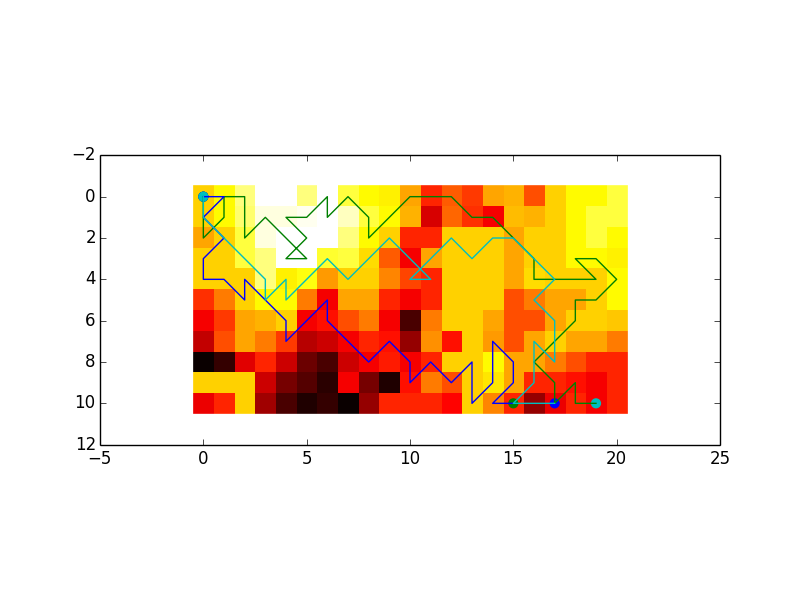
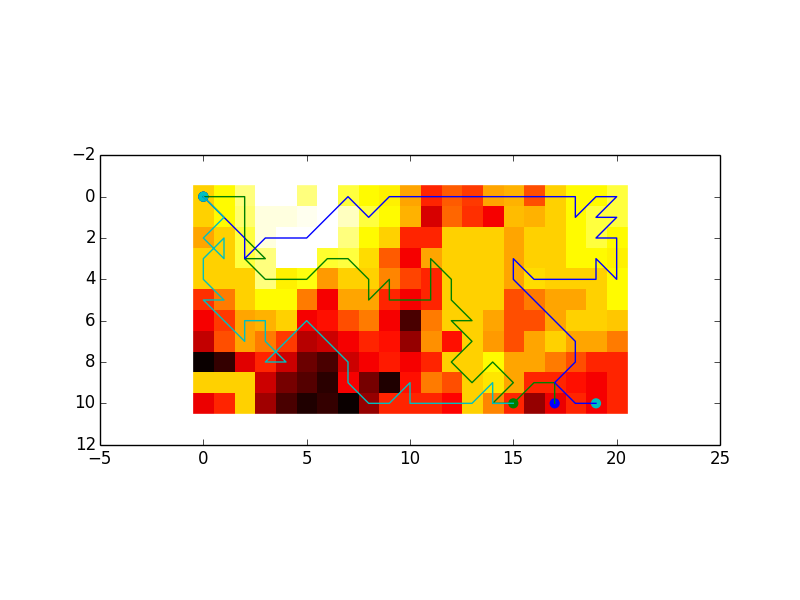
remove cycle

diff --git a/ga/population.py b/ga/population.py
@@ -1,5 +1,8 @@
 #!/bin/python3
 import random
+import Queue
+import threading
+import math
 
 from chromosome import Chromosome
 
@@ -39,6 +42,18 @@ class Population(object):
 
       return best
 
+    def _crossover(self, q, c1, c2):
+      new1, new2 = c1.crossover(c2)
+      new1.calculate_fitness(self.graph, self.removed_graph)
+      new2.calculate_fitness(self.graph, self.removed_graph)
+      q.put(new1)
+      q.put(new2)
+
+    def _mutate(self, c):
+      new1 = c.mutate()
+      new1.calculate_fitness(self.graph, self.removed_graph)
+      return new1
+
     def evolve(self):
       for i in range(ITERATION):
         print "Generation " + str(i)
@@ -47,23 +62,43 @@ class Population(object):
         self.chromosomes = self.chromosomes[:idx]
         buf = self.chromosomes
 
-        while idx < POP_SIZE:
+        iteration = int(math.ceil((POP_SIZE - idx) / 2.0))
+        q = Queue.Queue()
+        threads = []
+        for i in range(iteration):
+          c1 = self.selection()
+          c2 = self.selection()
+          t = threading.Thread(target=self._crossover, args = (q, c1, c2))
+          threads.append(t)
+
+        for t in threads:
+          t.start()
+
+        for i in range(2*iteration):
+          buf.append(q.get())
+
+        for i in range (idx, len(buf)):
           r = random.random()
           if r <= MUTATION_RATE:
-            c1 = self.selection()
-            new1 = c1.mutate()
-            new1.calculate_fitness(self.graph, self.removed_graph)
-            buf.append(new1)
-            idx += 1
-          else:
-            c1 = self.selection()
-            c2 = self.selection()
-            new1, new2 = c1.crossover(c2)
-            new1.calculate_fitness(self.graph, self.removed_graph)
-            new2.calculate_fitness(self.graph, self.removed_graph)
-            buf.append(new1)
-            buf.append(new2)
-            idx += 2
+            buf[i] = self._mutate(buf[i])
+
+        # while idx < POP_SIZE:
+        #   r = random.random()
+        #   if r <= MUTATION_RATE:
+        #     c1 = self.selection()
+        #     new1 = c1.mutate()
+        #     new1.calculate_fitness(self.graph, self.removed_graph)
+        #     buf.append(new1)
+        #     idx += 1
+        #   else:
+        #     c1 = self.selection()
+        #     c2 = self.selection()
+        #     new1, new2 = c1.crossover(c2)
+        #     new1.calculate_fitness(self.graph, self.removed_graph)
+        #     new2.calculate_fitness(self.graph, self.removed_graph)
+        #     buf.append(new1)
+        #     buf.append(new2)
+        #     idx += 2
         self.chromosomes = buf[:POP_SIZE]
         self.chromosomes = sorted(self.chromosomes, key=lambda x: x.fitness)
         print "Best fitness in current generation: " + str(self.chromosomes[0].fitness)

diff --git a/aco_ga_waterloo.py b/aco_ga_waterloo.py
@@ -1,19 +1,41 @@
 import sys
+import copy
 
 from graph.iomanager import IOManager
 from graph.iomanager import GraphNode
 
 from ga.population import Population
+from ga.chromosome import Chromosome
 from ga.gaconstants import START_NODE
 
 from graph.graph import Graph
 
 from acosolver import ACOSolver
 
+def remove_cycle(path):
+  new_path = copy.deepcopy(path)
+  for i in range(len(new_path)):
+    if i >= len(new_path): break
+    n1 = new_path[i]
+    for j in range(i+1, len(new_path)):
+      if j >= len(new_path): break
+      n2 = new_path[j]
+      if n1 == n2:
+        new_path = new_path[:i] + new_path[j:]
+        i-=1
+        break
+  return new_path
+
 def main():
   goals = [226, 228, 230];
   routes = [(1, goals[0]), (1, goals[1]), (1, goals[2])]
   raw_graph = Graph(mapfile__name='./graph/waterloo.map')
+  # path = [1, 23, 45, 66, 88, 89, 67, 87, 66, 45, 24, 23, 45, 67, 68, 67, 89, 111, 131, 111, 133, 154, 155, 156, 135, 136, 156, 177, 156, 135, 157, 178, 179, 178, 179, 180, 159, 160, 182, 181, 161, 183, 184, 206, 228, 207, 228, 207, 206, 228, 208, 230]
+  # raw_graph.plotMovementsMultiPaths([path], [(1, 230)], './result/before_ga.png')
+  # path = remove_cycle(path)
+  # print path
+  # raw_graph.plotMovementsMultiPaths([path], [(1, 230)], './result/after_ga.png')
+  # return
   graph = raw_graph.toGraphNode()
   # generate ecegraph
   # IOManager.export_graph(graph, '../aco/waterloo.ecegraph')
@@ -23,16 +45,19 @@ def main():
 
   score, solutions, order = solver.solve()
   solutions = [soln[0] for soln in solutions]
-  print('Best overall score: {}'.format(score))
-  print('Best order of goal nodes: {}'.format(order))
-  print('Best path solutions: {}'.format(solutions))
 
   paths = []
+  ga_scores = []
   removed = {}
   for goal in goals:
     end = goal
     population = Population(graph[START_NODE], end, removed)
     path = population.evolve()
+    path = remove_cycle(path)
+    new_cost = Chromosome.calc_costs(path, graph, goal, removed)
+    print 'new path: ' + str(path)
+    print 'new cost: ' + str(new_cost)
+    ga_scores.append(new_cost)
     paths.append(path)
     # remove path from graph
     for p in path:
@@ -42,6 +67,14 @@ def main():
     raw_graph.plotMovementsMultiPaths(solutions, routes, './result/aco.png')
     raw_graph.plotMovementsMultiPaths(paths, routes, './result/ga.png')
 
+  print 'GA:'
+  print 'scores: ' + str(ga_scores)
+  print 'paths: ' + str(paths)
+
+  print 'ACO:'
+  print('Best overall score: {}'.format(score))
+  print('Best order of goal nodes: {}'.format(order))
+  print('Best path solutions: {}'.format(solutions))
 
 if __name__ == '__main__':
   main()

diff --git a/ga/chromosome.py b/ga/chromosome.py
@@ -19,6 +19,27 @@ class Chromosome(object):
       self._generate_random_data()
 
     @classmethod
+    def calc_costs(cls, path, graph, goal, removed_graph):
+      cost = 0
+      reached = False
+      node = graph[path[0]]
+      for p in path[1:]:
+        cost += 1
+        if p in removed_graph:
+          # node removed, bad path
+          cost += CONFLICT_COST
+        if (p == goal):
+          #reached goal node
+          reached = True
+          break
+        cost += node.cost_to(p)
+        node = graph[p]
+      if not reached:
+        cost += 1000
+      return cost
+
+
+    @classmethod
     def from_chromosome(cls, chromo):
       c = cls(chromo.goal)
       for i in range(CHROMOSOME_LEN):

diff --git a/ga/gaconstants.py b/ga/gaconstants.py
@@ -1,12 +1,12 @@
 CHROMOSOME_LEN = 2 * 20 * 20
 MAX_GENE = 1000
-POP_SIZE = 500
+POP_SIZE = 200
 ITERATION = 100
 
-TOURNAMENT_SIZE = 10
+TOURNAMENT_SIZE = 5
 
-ELITISM_RATE = 0.2
-MUTATION_RATE = 0.7
+ELITISM_RATE = 0.6
+MUTATION_RATE = 0.4
 
 SINGLE_VALUE_CROSSOVER_ALPHA = 0.6
 START_NODE = 1

diff --git a/ga/main.py b/ga/main.py
@@ -1,6 +1,7 @@
 import sys
 import time
 import argparse
+import copy
 sys.path.insert(0, '../graph')
 
 from iomanager import IOManager
